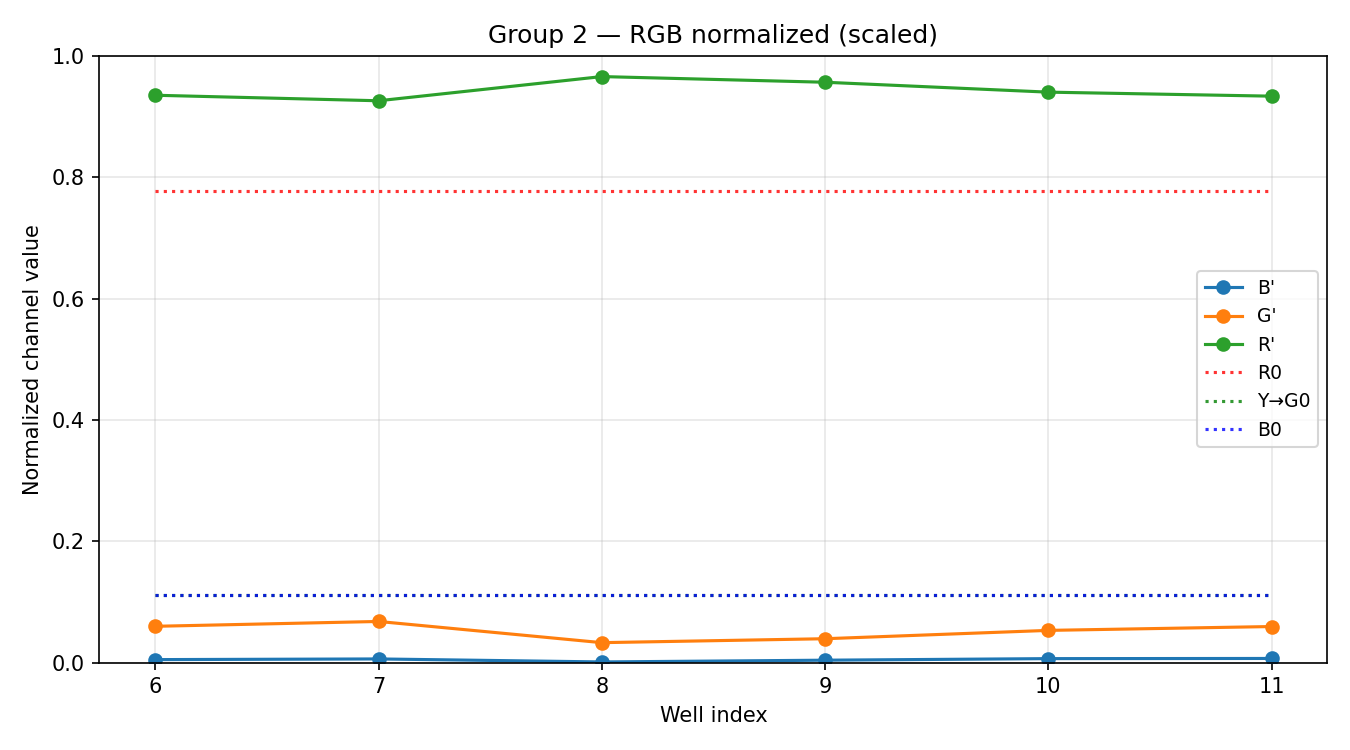
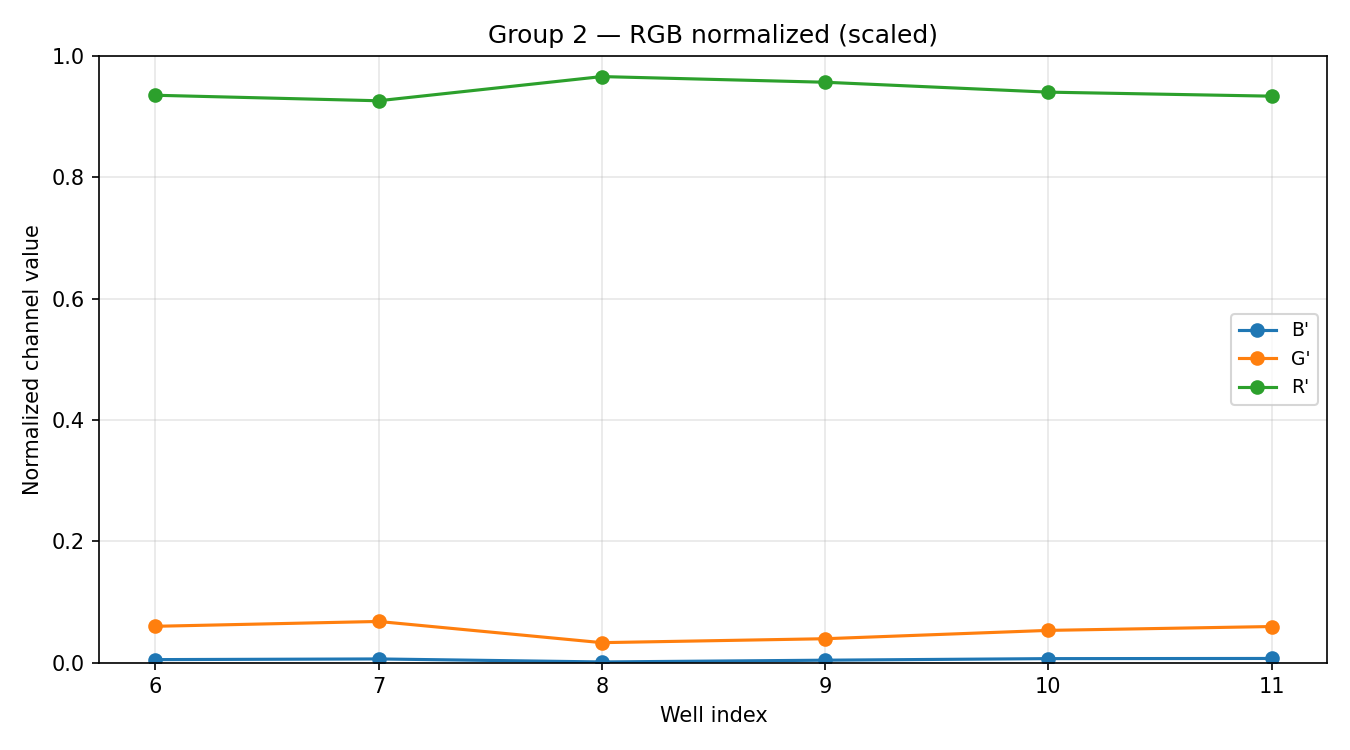
plots: add dotted expected R/Y/B lines to RGB normalized plots; regenerate 20260213_073533

Changed region(s): [[0.9022, 0.368, 0.9644, 0.5827]]

diff --git a/tests/analysis/uncertainty_plot_and_stats.py b/tests/analysis/uncertainty_plot_and_stats.py
@@ -272,6 +272,21 @@ def plot_normalized_all_wells(out_dir: Path):
                     plt.plot(pivot.index, pivot[ch].values, marker='o', linestyle='-', label=label)
                     if label:
                         legend_added.add(ch)
+                # For RGB scaled variant, overlay expected R/Y/B dotted lines per group
+                if cs == 'RGB' and filename_suffix == 'scaled':
+                    # Expected compositions (dominant set)
+                    expected = get_expected_compositions('dominant')
+                    comp = expected.get(int(group_id), {'R': 0.33, 'Y': 0.33, 'B': 0.33})
+                    total = comp['R'] + comp['Y'] + comp['B']
+                    r0 = comp['R'] / total if total else np.nan
+                    y0 = comp['Y'] / total if total else np.nan
+                    b0 = comp['B'] / total if total else np.nan
+                    xmin = pivot.index.min() if len(pivot.index) else None
+                    xmax = pivot.index.max() if len(pivot.index) else None
+                    if xmin is not None and xmax is not None:
+                        plt.hlines([r0], xmin=xmin, xmax=xmax, colors='r', linestyles='dotted', label=None)
+                        plt.hlines([y0], xmin=xmin, xmax=xmax, colors='g', linestyles='dotted', label=None)
+                        plt.hlines([b0], xmin=xmin, xmax=xmax, colors='b', linestyles='dotted', label=None)
             # Group boundary separators
             try:
                 all_idx = sorted(sub_df['well_index'].unique())
@@ -456,9 +471,9 @@ def compute_normalized_rgb_error(df: pd.DataFrame, out_dir: Path, expected_set: 
         plt.plot(wm.index, g_norm.values, marker='o', linestyle='-', label=f"G' (mean)")
         plt.plot(wm.index, b_norm.values, marker='o', linestyle='-', label=f"B' (mean)")
         # Expected horizontal lines
-        plt.hlines([r0], xmin=wm.index.min(), xmax=wm.index.max(), colors='r', linestyles='dashed', label=f"R0={r0:.2f}")
-        plt.hlines([g0], xmin=wm.index.min(), xmax=wm.index.max(), colors='g', linestyles='dashed', label=f"G0={g0:.2f}")
-        plt.hlines([b0], xmin=wm.index.min(), xmax=wm.index.max(), colors='b', linestyles='dashed', label=f"B0={b0:.2f}")
+        plt.hlines([r0], xmin=wm.index.min(), xmax=wm.index.max(), colors='r', linestyles='dotted', label=f"R0={r0:.2f}")
+        plt.hlines([g0], xmin=wm.index.min(), xmax=wm.index.max(), colors='g', linestyles='dotted', label=f"Y0={g0:.2f}")
+        plt.hlines([b0], xmin=wm.index.min(), xmax=wm.index.max(), colors='b', linestyles='dotted', label=f"B0={b0:.2f}")
         avg_err = float(err.mean()) if len(err) else np.nan
         plt.title(f"Group {group_id} — RGB normalized (avg error {avg_err:.3f})")
         plt.xlabel("Well index")
